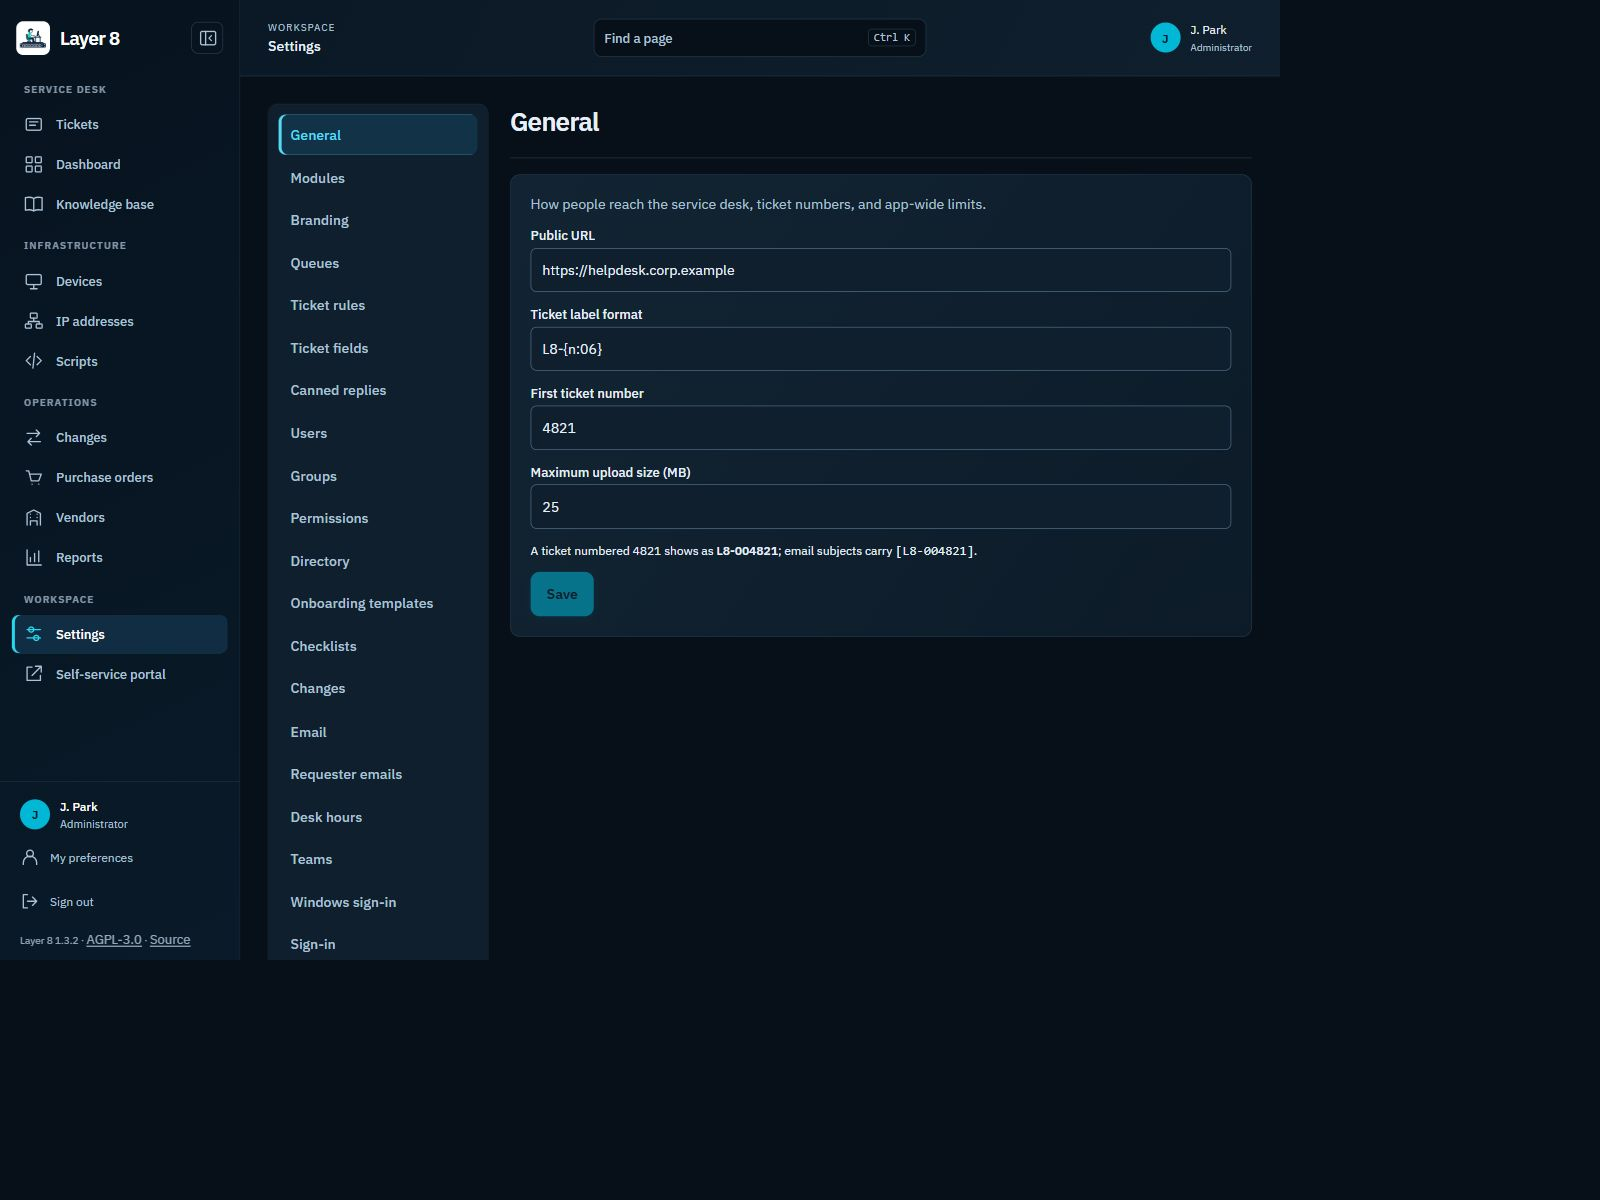
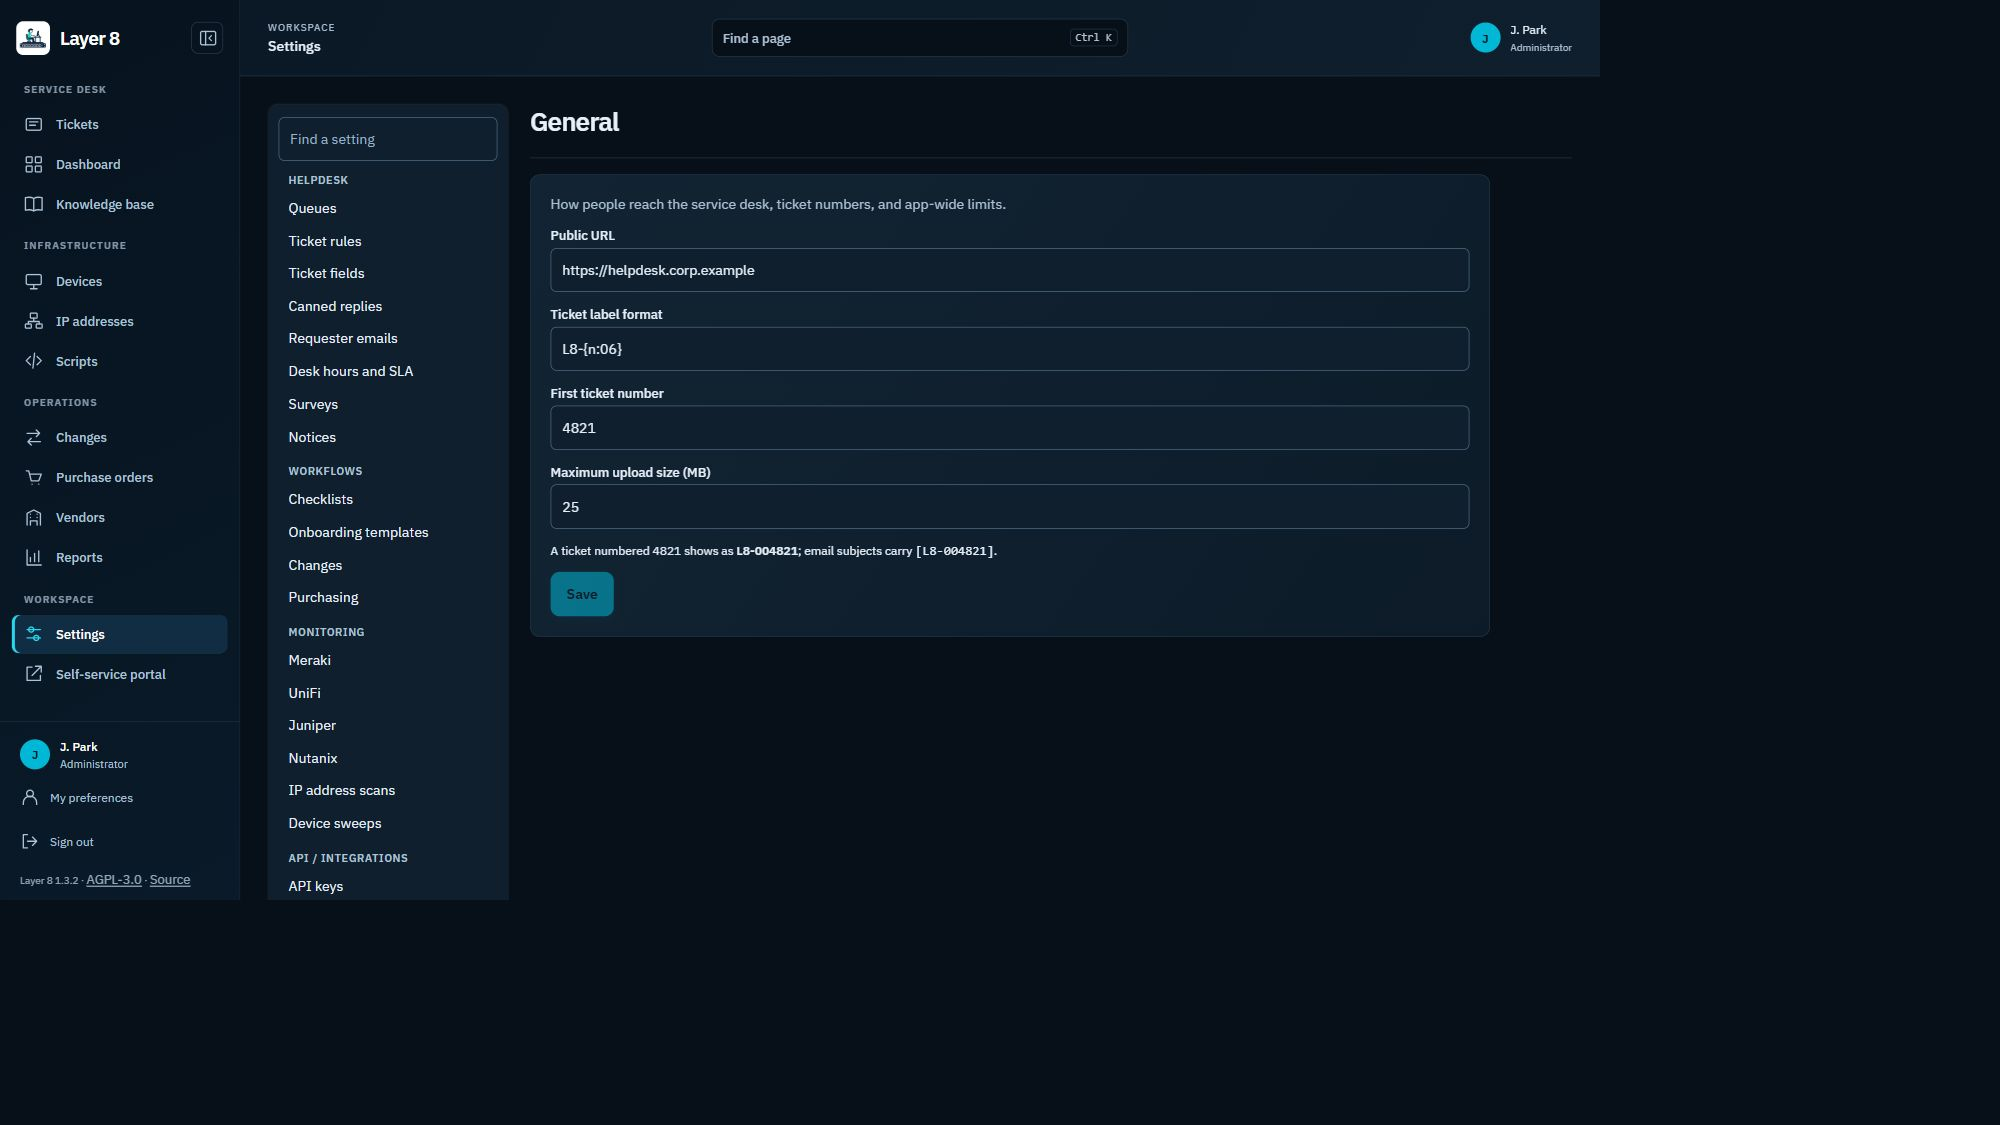
Refresh review notes and screenshots after Settings categories landed

diff --git a/README.md b/README.md
@@ -37,6 +37,7 @@ All screenshots, from the demo data: [screenshots/](screenshots/README.md).
 - Merge, parent and child tickets, bulk changes, and a page layout each technician can arrange.
 - Canned replies, shared or personal and per queue, with the ticket's details filled in ([docs/canned-replies.md](docs/canned-replies.md)).
 - Time tracking: log minutes with a note or in a ticket's Time panel; the *Time spent* report adds them up by technician, queue, category or day.
+- A grouped, collapsible technician sidebar and contextual header shared across the console; module pages use consistent headings, toolbars and tables. Existing branding, module visibility and ticket layouts are preserved ([layout review](docs/application-layout.md)).
 - A ticket page that puts the conversation first, with Work and History tabs and a drawer of tools (details, devices, directory, scripts, network…); the classic arranged layout is still there ([docs/ticket-workspace.md](docs/ticket-workspace.md)).
 - "Tickets Anywhere": technicians act on tickets by replying to email (`#close`, `#assign`, `#priority`).
 - Checklists for onboarding and offboarding, where each step becomes a child ticket due on its day.
@@ -91,7 +92,6 @@ All screenshots, from the demo data: [screenshots/](screenshots/README.md).
 
 Screenshots of every page, in light and dark and in each theme: [screenshots/](screenshots/README.md) (an earlier gallery: [command-center](screenshots/command-center/README.md)). The full requirements and decisions are in [SPEC.md](SPEC.md).
 
-- A grouped, collapsible technician sidebar and contextual header shared across the console; module pages use consistent headings, toolbars and tables. Existing branding, module visibility and ticket layouts are preserved ([layout review](docs/application-layout.md)).
 
 ## Try it
 

diff --git a/docs/application-layout.md b/docs/application-layout.md
@@ -8,7 +8,7 @@ The sidebar can collapse to an icon rail. It starts compact at a viewport width 
 
 The header identifies the current module, retains the existing Ctrl+K page finder and unaccepted-ticket alert, and shows account information when space allows. Module headings, toolbars, cards and tables share spacing and border treatment. Queue scrolling and the Option B ticket tool drawer keep their existing behavior.
 
-Settings categories/search are being reviewed separately in PR #78. This change does not alter Settings tabs or configuration behavior. Public portal, sign-in and remote wallboards retain their separate layouts. No new palette is installed and no tenant theme is changed.
+Settings categories/search from merged PR #78 are retained. This change does not alter Settings tabs or configuration behavior. Public portal, sign-in and remote wallboards retain their separate layouts. No new palette is installed and no tenant theme is changed.
 
 ## Review images
 
